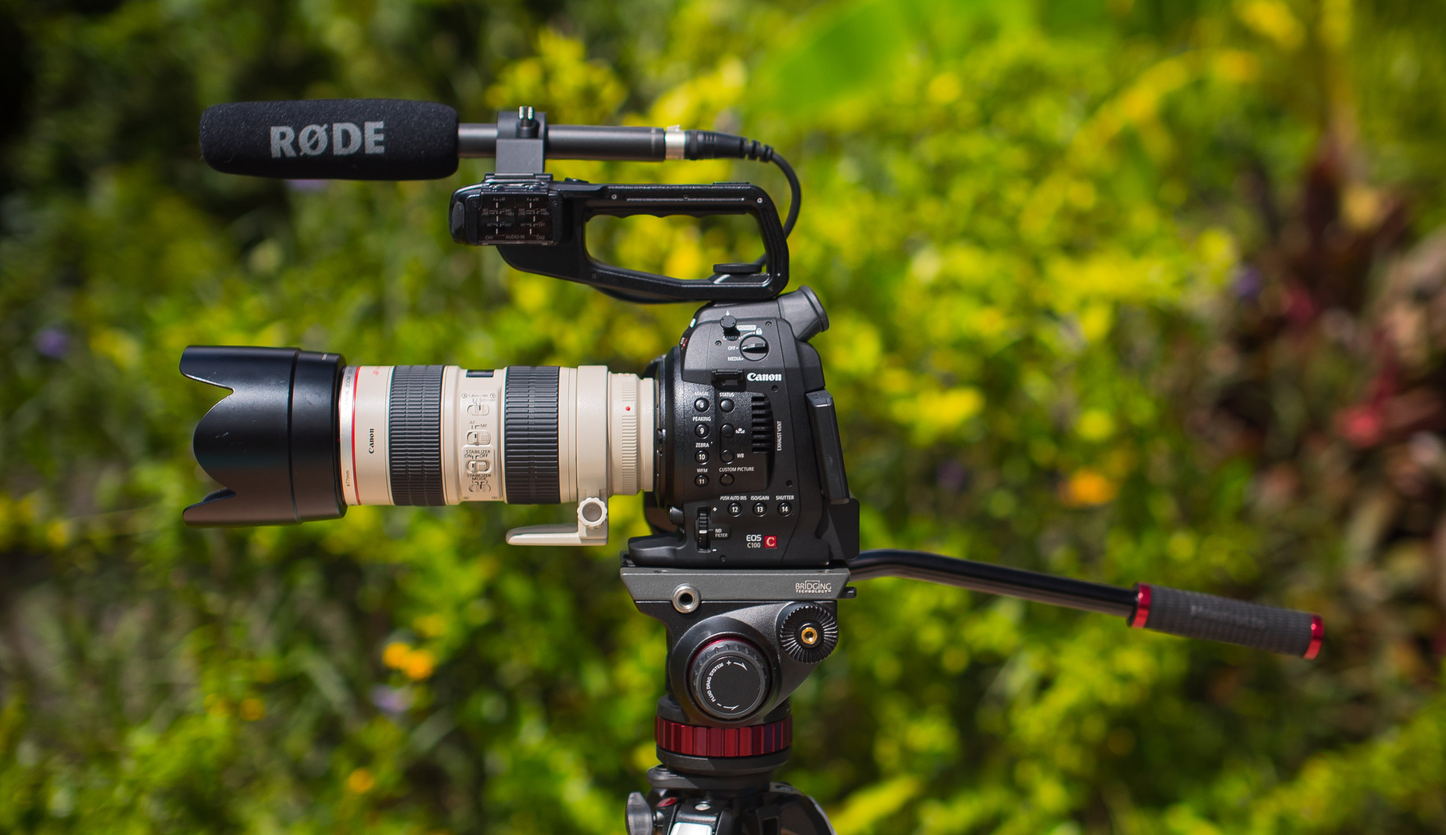
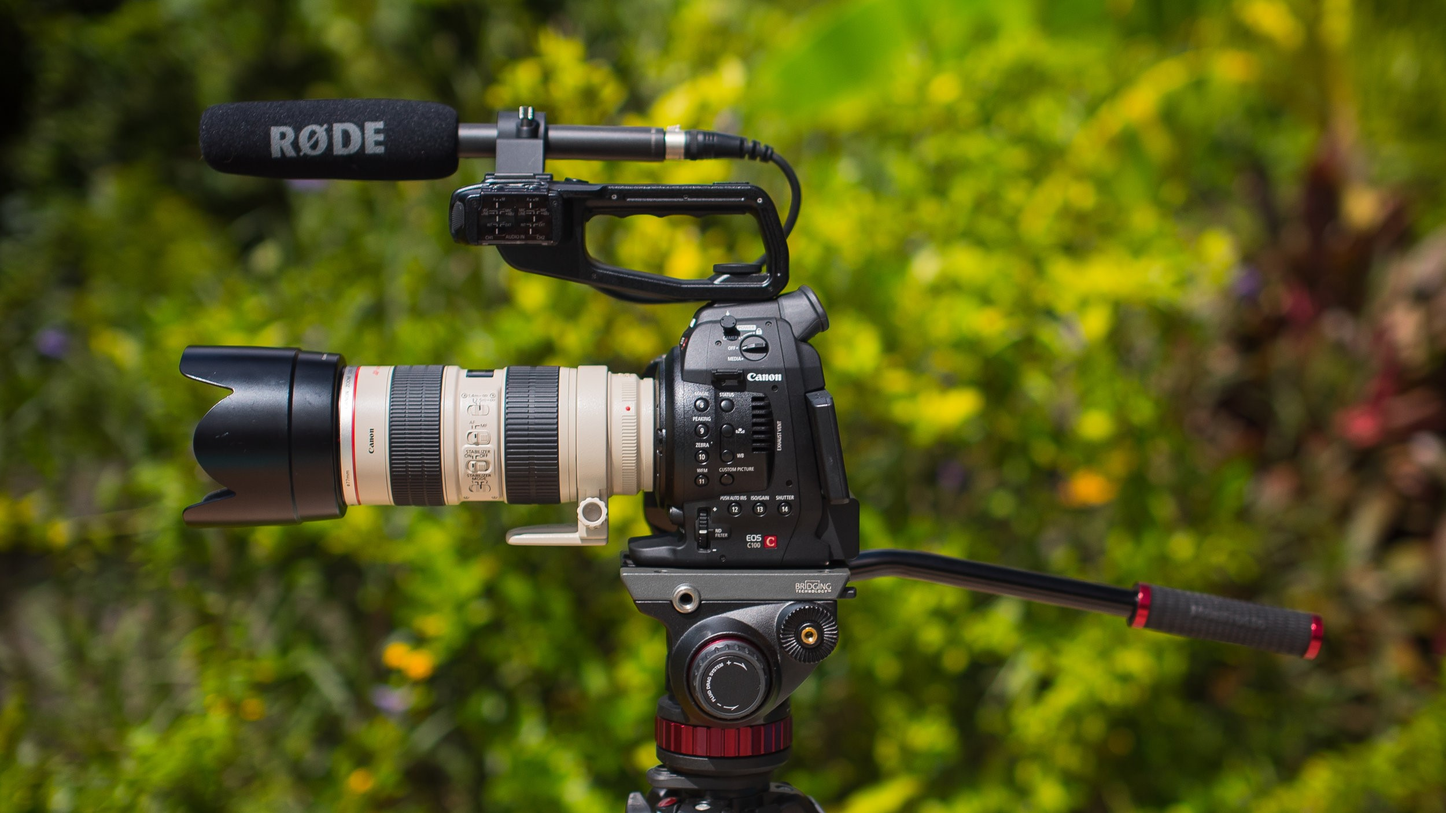
Switching all images to full size for sharpness

diff --git a/index.html b/index.html
@@ -126,7 +126,7 @@
             <div class="row no-gutter popup-gallery">
                 <div class="col-lg-4 col-sm-6">
                     <a href="img/portfolio/fullsize/1.jpg" class="portfolio-box">
-                        <img src="img/portfolio/thumbnails/1.jpg" class="img-responsive" alt="">
+                        <img src="img/portfolio/fullsize/1.jpg" class="img-responsive" alt="">
                         <div class="portfolio-box-caption">
                             <div class="portfolio-box-caption-content">
                                 <div class="project-category text-faded">
@@ -141,7 +141,7 @@
                 </div>
                 <div class="col-lg-4 col-sm-6">
                     <a href="img/portfolio/fullsize/2.jpg" class="portfolio-box">
-                        <img src="img/portfolio/thumbnails/2.jpg" class="img-responsive" alt="">
+                        <img src="img/portfolio/fullsize/2.jpg" class="img-responsive" alt="">
                         <div class="portfolio-box-caption">
                             <div class="portfolio-box-caption-content">
                                 <div class="project-category text-faded">
@@ -156,7 +156,7 @@
                 </div>
                 <div class="col-lg-4 col-sm-6">
                     <a href="img/portfolio/fullsize/3.jpg" class="portfolio-box">
-                        <img src="img/portfolio/thumbnails/3.jpg" class="img-responsive" alt="">
+                        <img src="img/portfolio/fullsize/3.jpg" class="img-responsive" alt="">
                         <div class="portfolio-box-caption">
                             <div class="portfolio-box-caption-content">
                                 <div class="project-category text-faded">
@@ -171,7 +171,7 @@
                 </div>
                 <div class="col-lg-4 col-sm-6">
                     <a href="img/portfolio/fullsize/4.jpg" class="portfolio-box">
-                        <img src="img/portfolio/thumbnails/4.jpg" class="img-responsive" alt="">
+                        <img src="img/portfolio/fullsize/4.jpg" class="img-responsive" alt="">
                         <div class="portfolio-box-caption">
                             <div class="portfolio-box-caption-content">
                                 <div class="project-category text-faded">
@@ -186,7 +186,7 @@
                 </div>
                 <div class="col-lg-4 col-sm-6">
                     <a href="img/portfolio/fullsize/5.jpg" class="portfolio-box">
-                        <img src="img/portfolio/thumbnails/5.jpg" class="img-responsive" alt="">
+                        <img src="img/portfolio/fullsize/5.jpg" class="img-responsive" alt="">
                         <div class="portfolio-box-caption">
                             <div class="portfolio-box-caption-content">
                                 <div class="project-category text-faded">
@@ -201,7 +201,7 @@
                 </div>
                 <div class="col-lg-4 col-sm-6">
                     <a href="img/portfolio/fullsize/6.jpg" class="portfolio-box">
-                        <img src="img/portfolio/thumbnails/6.jpg" class="img-responsive" alt="">
+                        <img src="img/portfolio/fullsize/6.jpg" class="img-responsive" alt="">
                         <div class="portfolio-box-caption">
                             <div class="portfolio-box-caption-content">
                                 <div class="project-category text-faded">
